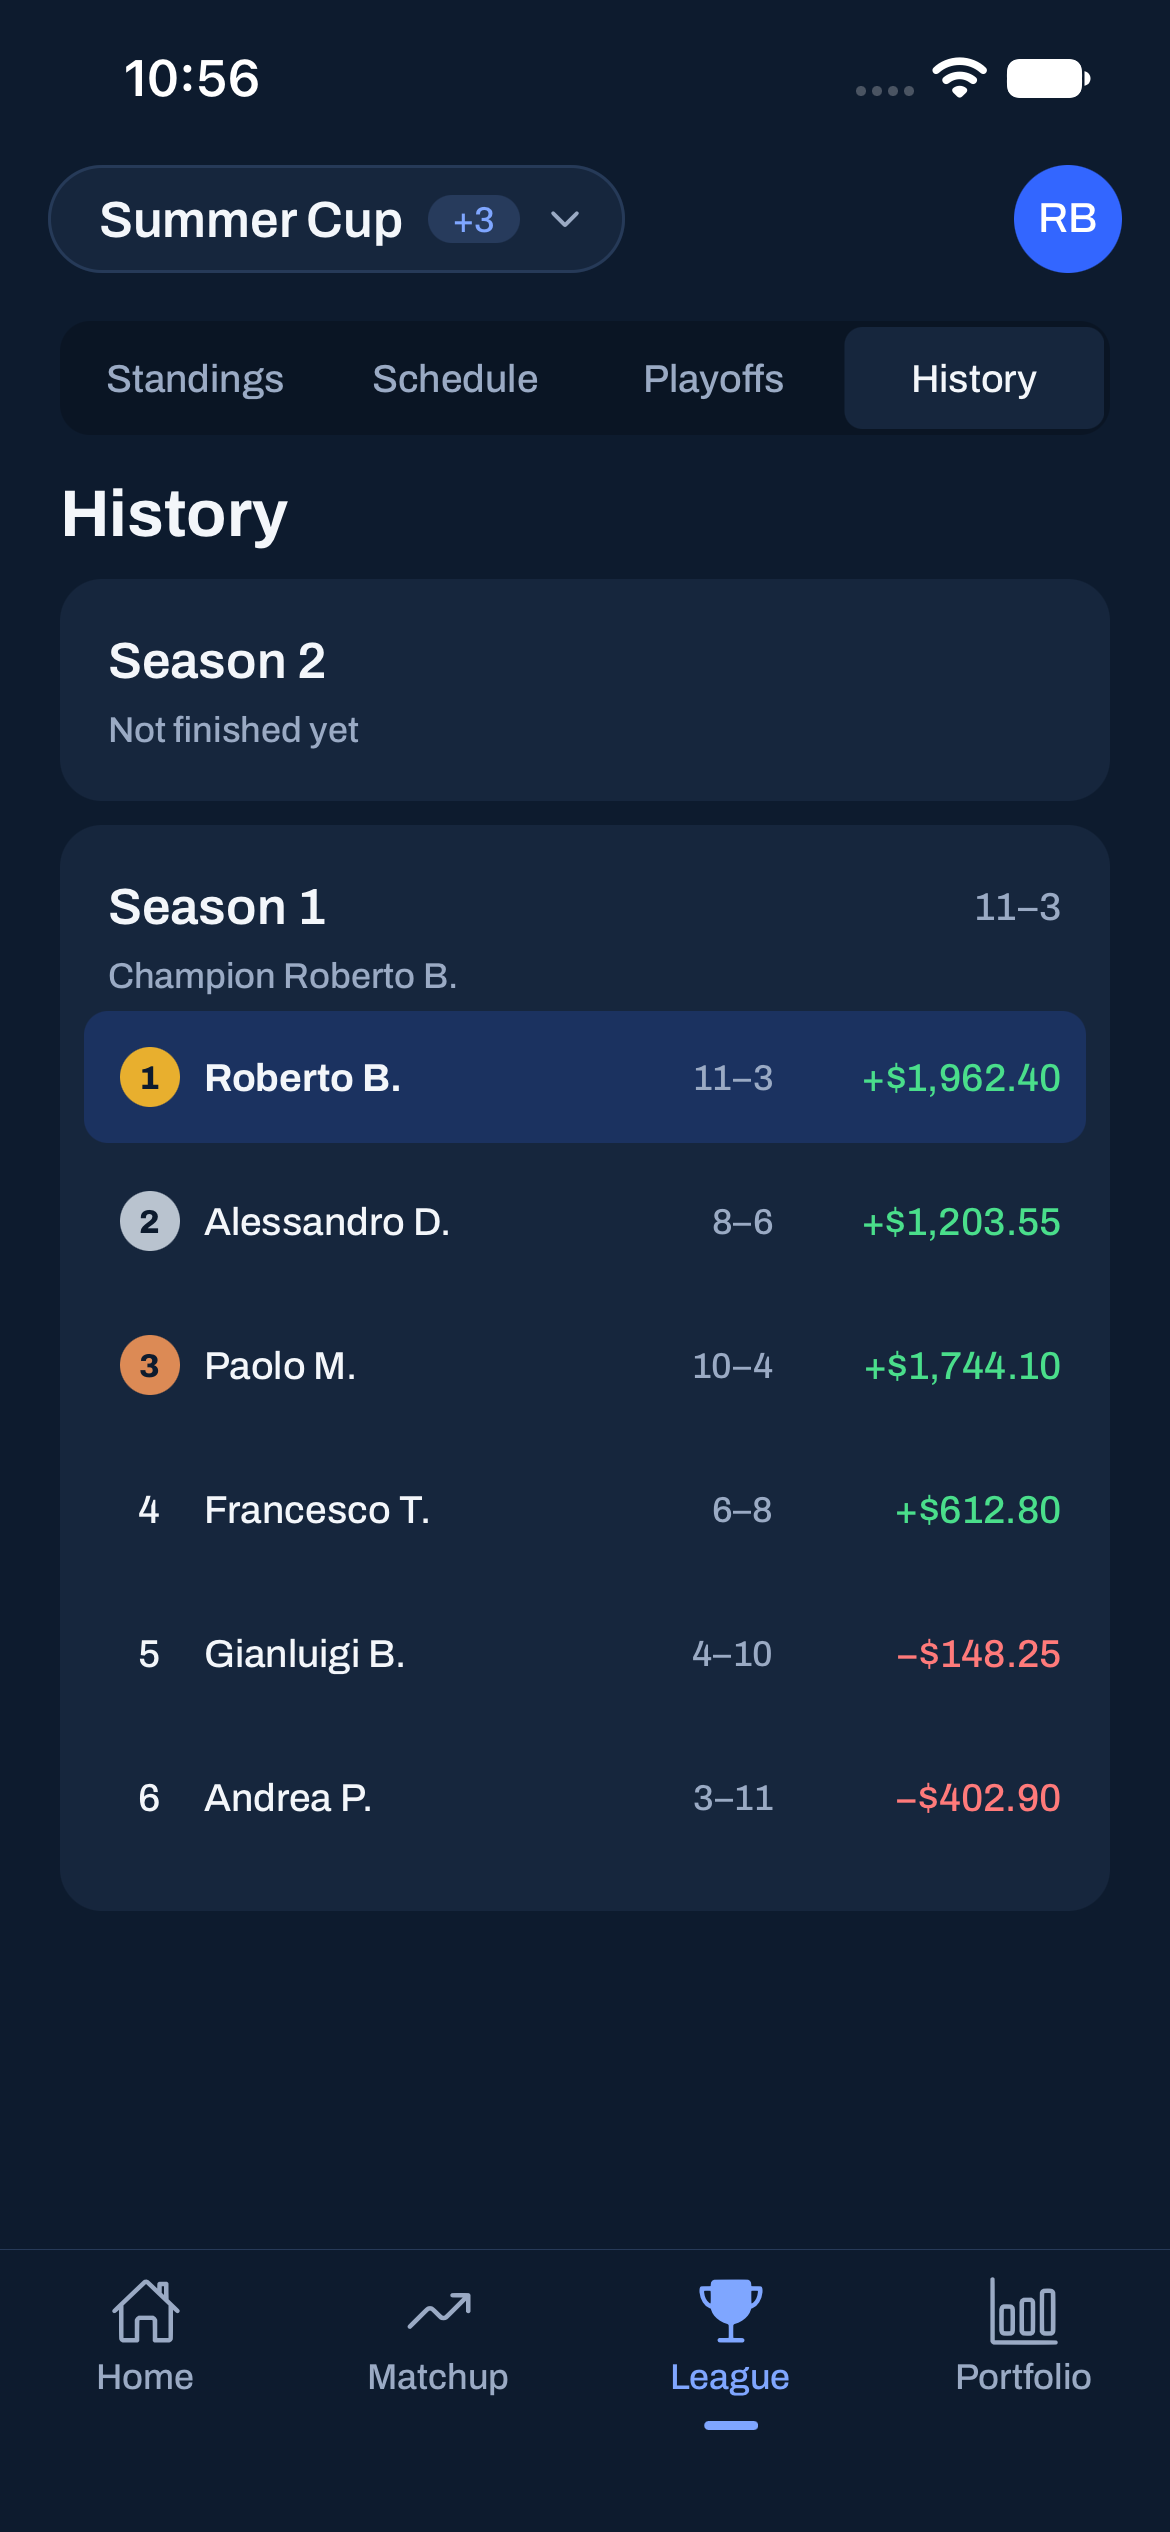
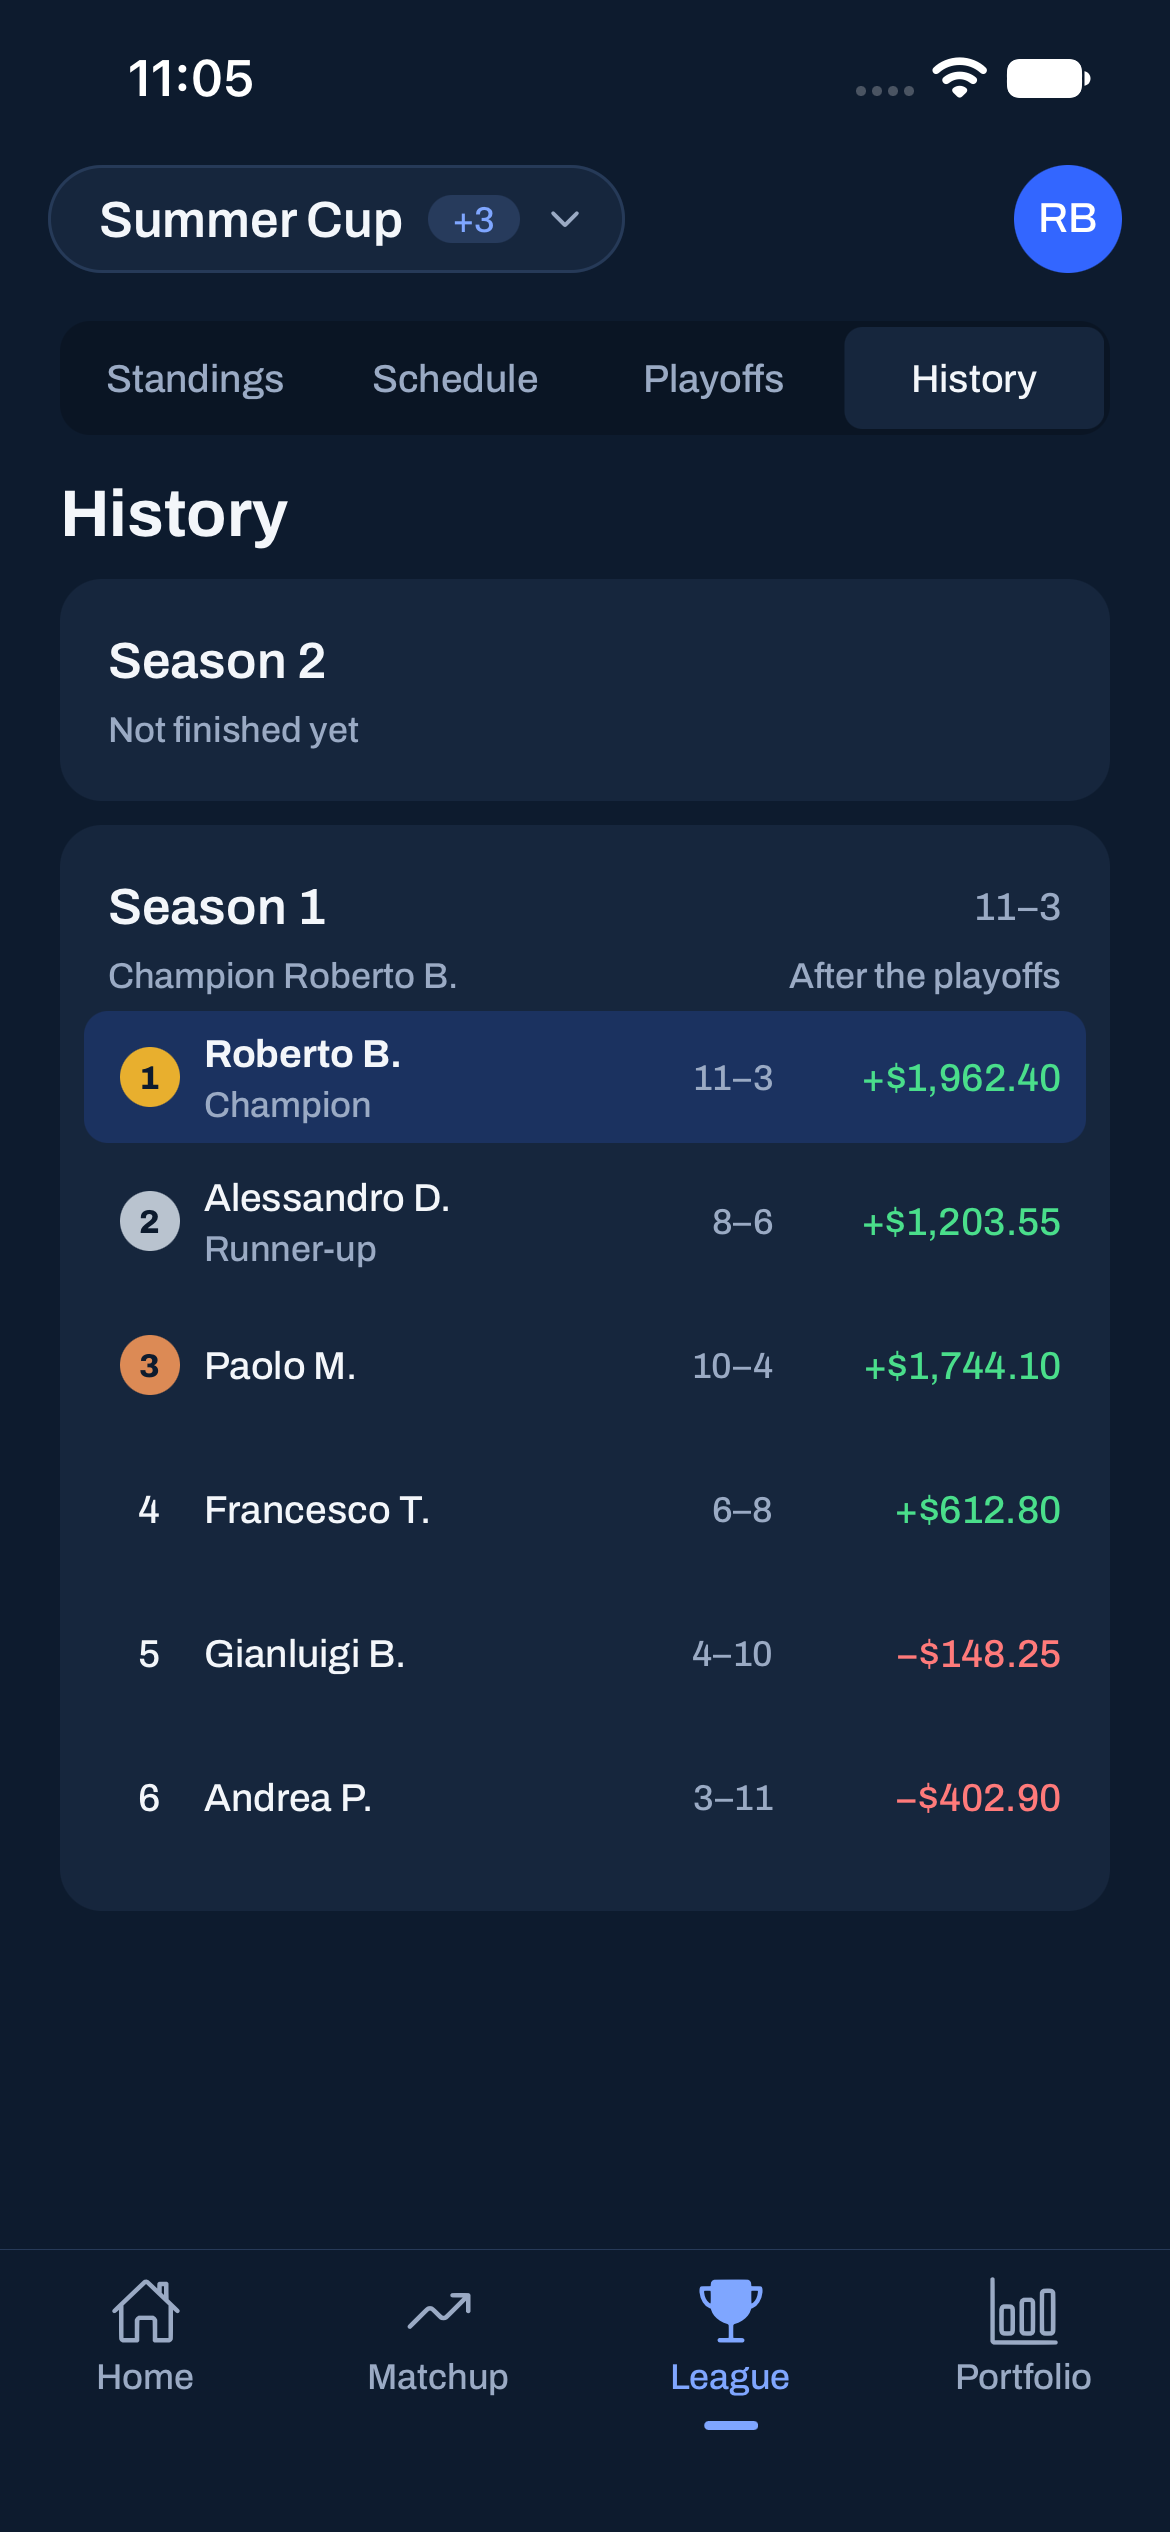
fix(mobile): History labels a playoff-ordered season the way Standings does (GS-8b)
A finished season showed Alessandro D. 8–6 (silver) above Paolo M. 10–4 (bronze) with no
labels, which read as a mistake. History now shows Standings' own "After the playoffs"
beside the champion line and the Champion / Runner-up tags under the names (no new copy),
with a source guard and recaptures (Light, Dark, XL).

diff --git a/apps/mobile/components/game/HistoryList.tsx b/apps/mobile/components/game/HistoryList.tsx
@@ -8,6 +8,7 @@ import { radius, space } from '@/constants/tokens';
 import { historySeasons, historyStandings, type HistoryRow } from '@/lib/game/history';
 import type { PodiumGameRow } from '@/lib/game/finalStandings';
 import { MEDAL, MedalDisc, useMedalDiscSize } from '@/components/game/MedalDisc';
+import { COPY as GAME_COPY } from '@/lib/game/gameCopy';
 import { useLargeText } from '@/components/sp/useLargeText';
 import { yourNameStyle, yourRowTint, youA11y } from '@/lib/game/managerRow';
 
@@ -31,7 +32,12 @@ export function HistoryList({ rows, myUserId, playoffs }: { rows: HistoryRow[]; 
             <Text variant="headline">{`Season ${s.seasonNumber}`}</Text>
             {s.myRecord ? <Text variant="callout" tone="secondary">{s.myRecord}</Text> : null}
           </View>
-          {s.champion ? <Text variant="caption" tone="secondary">{`Champion ${s.champion}`}</Text> : <Text variant="caption" tone="secondary">Not finished yet</Text>}
+          {/* GS-8b: once the playoffs order the season, say so (Standings' own subtitle), so a
+              silver above a better record doesn't read as a mistake. */}
+          <View style={styles.subHead}>
+            {s.champion ? <Text variant="caption" tone="secondary">{`Champion ${s.champion}`}</Text> : <Text variant="caption" tone="secondary">Not finished yet</Text>}
+            {s.table.medals ? <Text variant="caption" tone="secondary">{GAME_COPY.finalStandingsSubtitle}</Text> : null}
+          </View>
           {s.table.places.map(({ standing: st, place, tag }) => {
             const medal = s.table.medals ? MEDAL[place] : undefined;
             return (
@@ -42,6 +48,7 @@ export function HistoryList({ rows, myUserId, playoffs }: { rows: HistoryRow[]; 
                 {largeText ? (
                   <View style={styles.name}>
                     <Text variant="callout" style={yourNameStyle(st.user_id === myUserId)}>{st.display_name}</Text>
+                    {tag ? <Text variant="caption" tone="secondary">{tag}</Text> : null}
                     <View style={styles.statsLine}>
                       <Text variant="caption" tone="secondary">{`${st.wins}–${st.losses}`}</Text>
                       <Text variant="callout" style={{ color: gainColor(st.points_for) }}>{formatMoney(st.points_for, { sign: 'always' })}</Text>
@@ -49,7 +56,11 @@ export function HistoryList({ rows, myUserId, playoffs }: { rows: HistoryRow[]; 
                   </View>
                 ) : (
                   <>
-                    <Text variant="callout" style={[styles.name, yourNameStyle(st.user_id === myUserId)]}>{st.display_name}</Text>
+                    <View style={styles.name}>
+                      <Text variant="callout" style={yourNameStyle(st.user_id === myUserId)}>{st.display_name}</Text>
+                      {/* GS-8b: the podium's tags, as Standings shows them ("Champion" / "Runner-up"). */}
+                      {tag ? <Text variant="caption" tone="secondary">{tag}</Text> : null}
+                    </View>
                     <Text variant="caption" tone="secondary">{`${st.wins}–${st.losses}`}</Text>
                     <Text variant="callout" style={[styles.gain, { color: gainColor(st.points_for) }]}>{formatMoney(st.points_for, { sign: 'always' })}</Text>
                   </>
@@ -69,6 +80,7 @@ const styles = StyleSheet.create({
   card: { borderRadius: radius.lg, padding: space[5], gap: space[2] },
   stack: { gap: space[3] },
   head: { flexDirection: 'row', justifyContent: 'space-between', alignItems: 'center' },
+  subHead: { flexDirection: 'row', flexWrap: 'wrap', justifyContent: 'space-between', columnGap: space[3] },
   row: { flexDirection: 'row', alignItems: 'center', gap: space[2], minHeight: 44 },
   // One fixed-width rank cell, centred, so medal discs and plain places line up (Standings' G-6 rule).
   rankCell: { alignItems: 'center' },

diff --git a/apps/mobile/tests-deno/final-standings-screens.test.ts b/apps/mobile/tests-deno/final-standings-screens.test.ts
@@ -91,3 +91,14 @@ Deno.test('the three screens read the one order (source guards)', () => {
   // The "Champion"/"Runner-up" sub-labels are the tags the lib sets (finalStandingsOrder).
   assert(SOURCES['lib/game/finalStandings.ts'].includes("tag: i === 0 ? 'Champion' : i === 1 ? 'Runner-up' : null,"));
 });
+
+Deno.test('GS-8b: History labels the playoff order the way Standings does (source guard)', () => {
+  const history = SOURCES['components/game/HistoryList.tsx'];
+  // The same subtitle key as Standings' header, shown only when the playoffs ordered the season.
+  assert(history.includes('{s.table.medals ? <Text variant="caption" tone="secondary">{GAME_COPY.finalStandingsSubtitle}</Text> : null}'));
+  // The podium tags under the name, in both the regular and the large-text layout.
+  assertEquals((history.match(/\{tag \? <Text variant="caption" tone="secondary">\{tag\}<\/Text> : null\}/g) ?? []).length, 2);
+  // No new copy: History's only strings for this are Standings' keys and the lib's tags.
+  assert(!history.includes("'After the playoffs'") && !history.includes('"After the playoffs"'));
+  assert(SOURCES['components/game/StandingsTable.tsx'].includes('{r.tag ? <Text variant="caption" tone="secondary">{r.tag}</Text> : null}'));
+});

diff --git a/docs/design/captures/ui-mobile-game/README.md b/docs/design/captures/ui-mobile-game/README.md
@@ -87,7 +87,7 @@ week 6's posted gains under `scored`, and your and Gianluigi's records count tha
 | `gs-league-final-standings-{light,dark}` | GS-4 "Final standings · After the playoffs": you (champion) gold, Paolo (1st seed, lost the Final) silver "Runner-up", Luca (the better-seeded semifinal loser) bronze; the footnote; no move column | Summer Cup → League → Standings |
 | `gs-league-final-standings-xl` | GS-3 all four League segments fit at XL; GS-4 stacked at XL | same, XL |
 | `gs-league-playoffs-{light,dark}` | The Playoffs tab keeps the seeding (Paolo 1). The duplicate Wild card heading is GS-6 (P2, not in this pass) | League → Playoffs |
-| `gs-league-history-{light,dark}` | GS-8 Season 1 by its playoffs (fixture `get_season_matchups`): you gold, Alessandro (3rd seed, lost the Final) silver, Paolo bronze; the rest in frozen order | League → History |
+| `gs-league-history-{light,dark,xl}` | GS-8 Season 1 by its playoffs (fixture `get_season_matchups`): you gold, Alessandro (3rd seed, lost the Final) silver, Paolo bronze; the rest in frozen order. GS-8b: "After the playoffs" beside the champion line and the Champion / Runner-up tags, Standings' own copy (XL: they wrap) | League → History |
 
 Not captured: the season-complete card (its headline place now comes from the same order;
 covered by `final-standings.test.ts` `seasonCompletePlace`).
